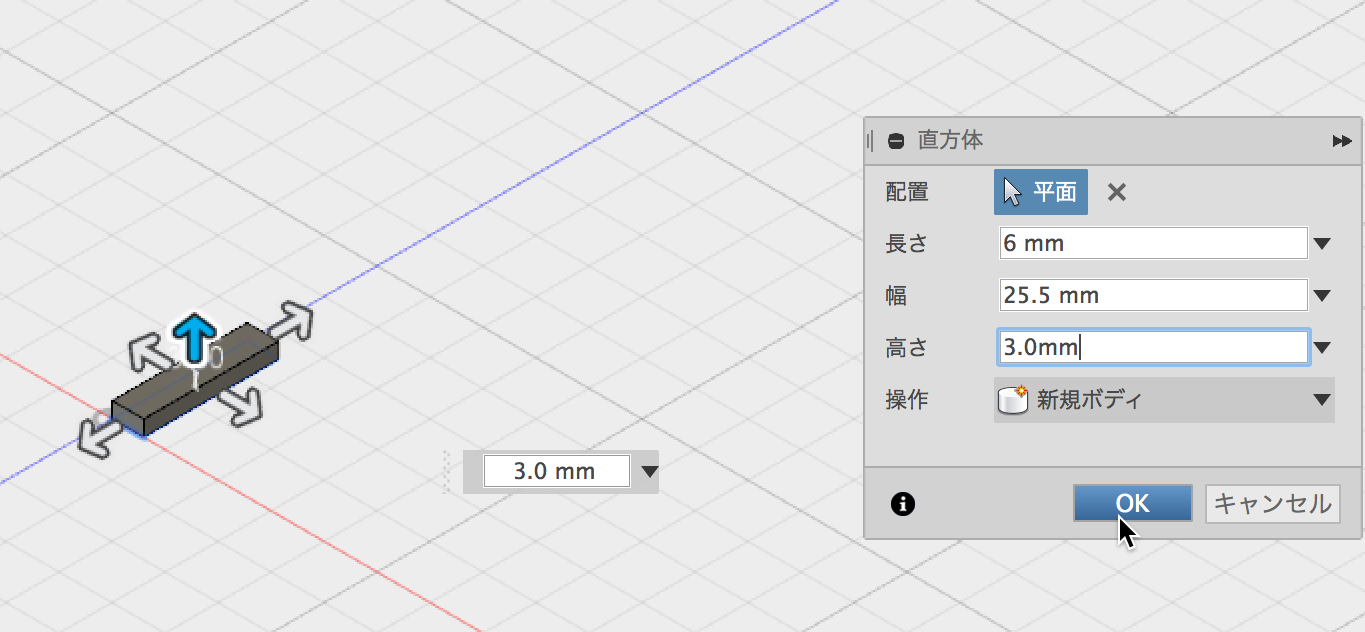
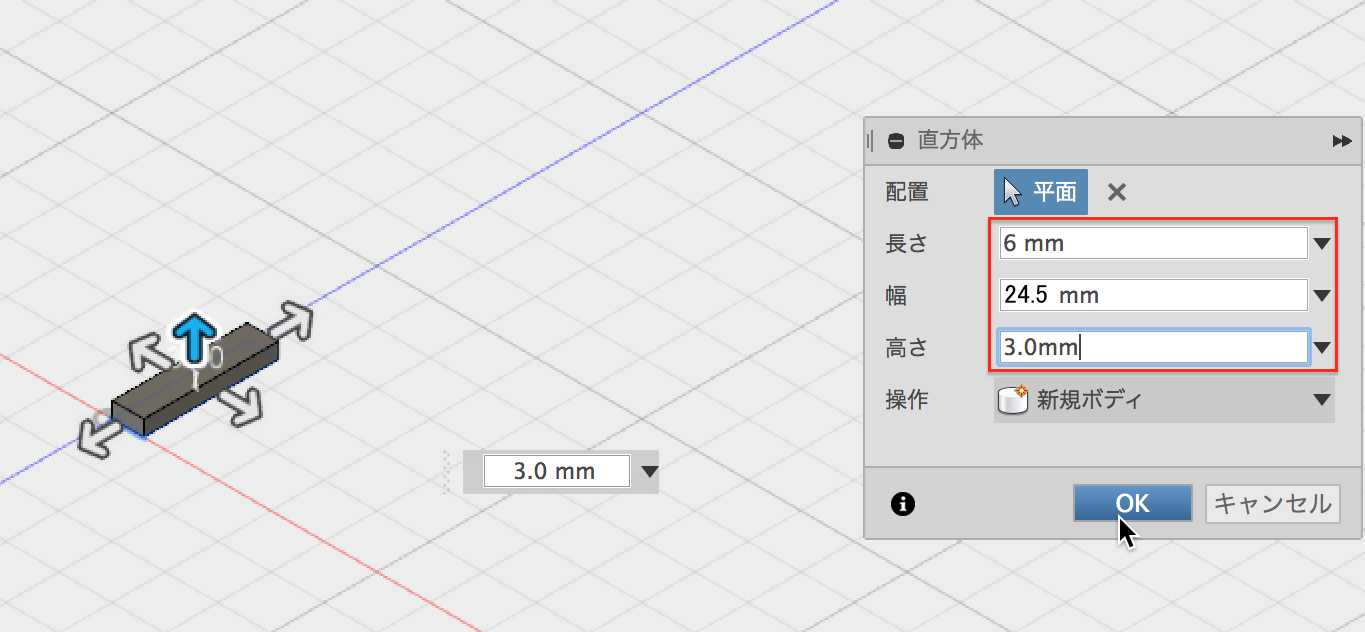
Update picamera.

diff --git a/dev/picamera1.md b/dev/picamera1.md
@@ -95,7 +95,7 @@
 |長さ/幅/高さ|サイズ|
 |:--|:--|
 |長さ| 6mm |
-|幅| 25.5mm |
+|幅| 24.5mm |
 |高さ| 3.0mm|
 
 |xyz|場所|
